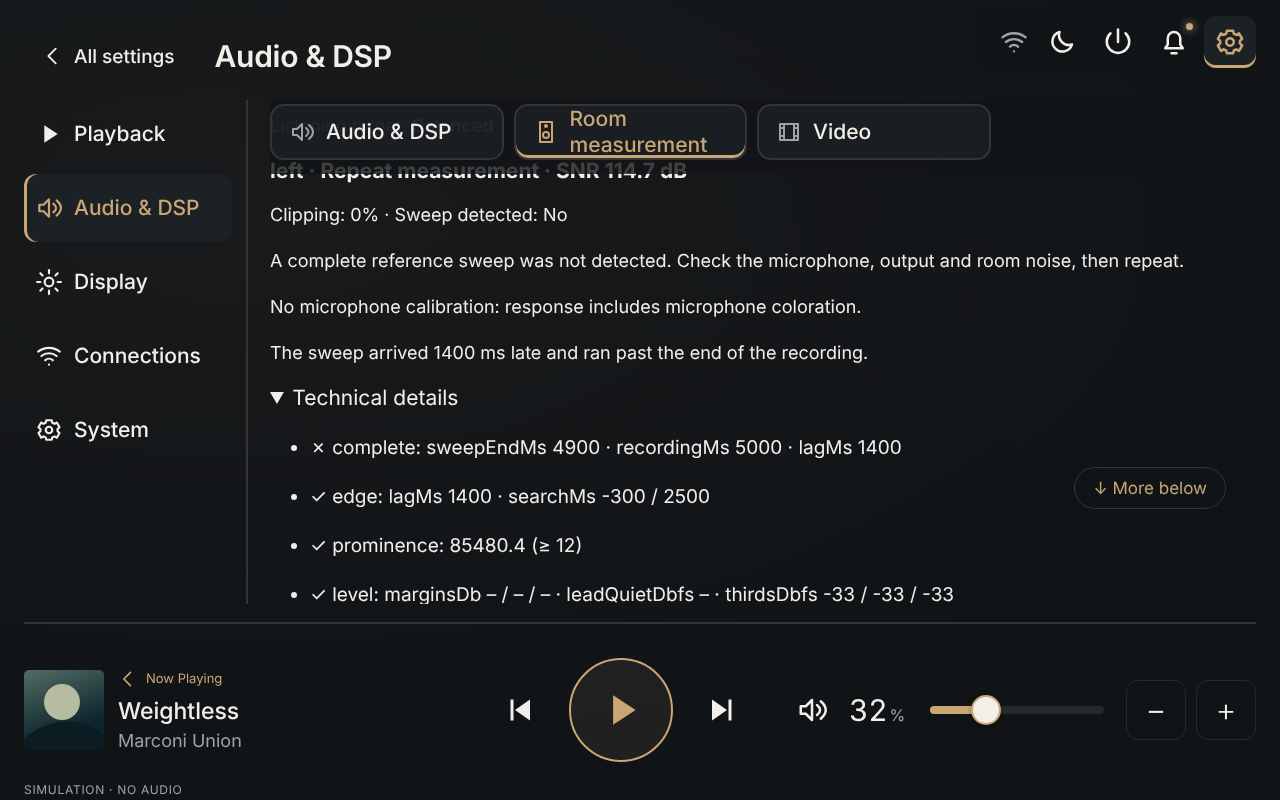
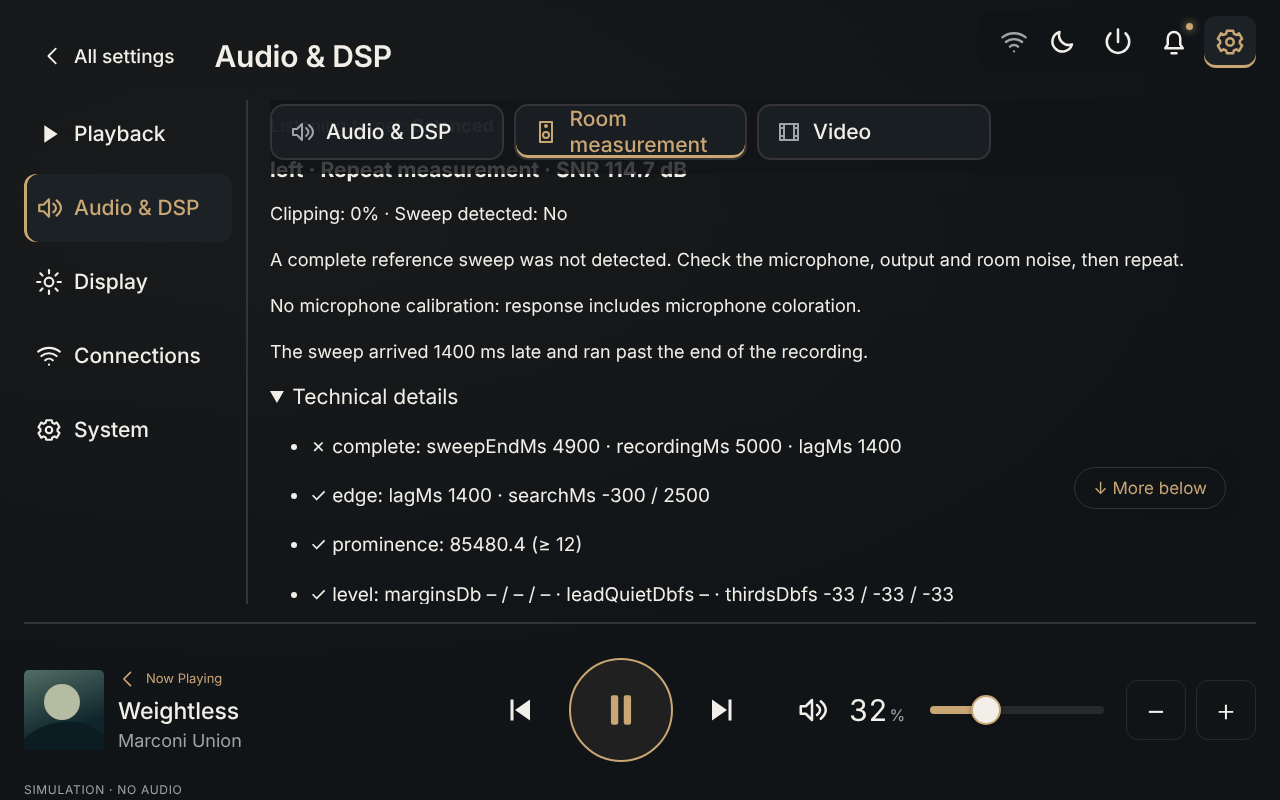
Record full Chromium result for sweep diagnostics
Claude-Session: https://claude.ai/code/session_01FgzeRAR1scsyq9yyL1BTqY

diff --git a/docs/sweep-diagnostics-validation.md b/docs/sweep-diagnostics-validation.md
@@ -26,7 +26,7 @@ The detection thresholds (prominence ≥ 12, middle/high thirds > 2× lead-in po
 | `npm run check` (unit tests + build) | 422/422, build OK |
 | `measurement-quality` / `measurement-status` | 12/12. New: a sweep 1.4 s late is detected; the same sweep in a 5 s recording fails with `complete`; a sweep buried in noise fails with `prominence`/`level`/`snr`; a 3.9.x result without diagnostics or with another analyser version gets the refresh notice. |
 | `room-measurement.spec.js` (Chromium) | 5/5. New: Results show the late/cut-off reason, the older-analyser notice and the technical details. |
-| Full Chromium suite | see below |
+| Full Chromium suite (`playwright test`) | 227/227 passed |
 
 Screenshot: [images/sweep-diagnostics/results-diagnosis.png](images/sweep-diagnostics/results-diagnosis.png) (simulator, synthetic recording).
 
